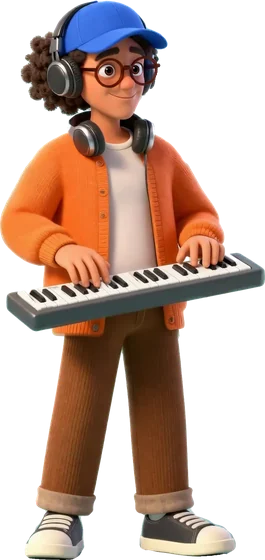
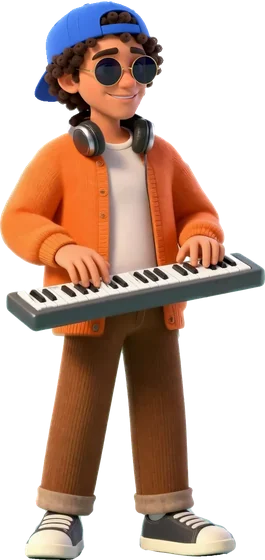
The keyboardist as a cool musician; the team in their own poses on the map
- The keyboardist no longer looks cross-eyed or goofy: a backwards cap, round dark sunglasses with gold
  frames, one pair of headphones round his neck and a calm, confident smile; his hands and keys stay
- On the process map the three stand in other poses than on the first screen: the recording person
  with a handheld recorder and a hand on her headphones, the tester holding his phone sideways like a
  game controller, the musician snapping his fingers to the beat (EN and UA descriptions)

Changed region(s): [[0.0604, 0.0, 0.634, 0.2125]]

diff --git a/index.html b/index.html
@@ -11,35 +11,35 @@
 <link rel="preconnect" href="https://fonts.gstatic.com" crossorigin>
 <link rel="stylesheet" href="https://fonts.googleapis.com/css2?family=Archivo:wdth,wght@62..125,100..900&family=Roboto+Flex:wdth,wght@25..151,100..1000&family=Montserrat:wght@600..900&display=swap">
 <script>try{if(localStorage.getItem("sfx-lang")==="uk"){document.documentElement.lang="uk";document.documentElement.classList.add("i18n-wait")}}catch(e){}</script>
-<link rel="stylesheet" href="css/style.css?v=202610231613">
+<link rel="stylesheet" href="css/style.css?v=202610231812">
 <link rel="preload" as="image" href="assets/system/scene-forest.webp" fetchpriority="high">
 <script type="importmap">
 {
   "imports": {
     "three": "https://cdn.jsdelivr.net/npm/three@0.170.0/build/three.module.min.js",
     "three/addons/": "https://cdn.jsdelivr.net/npm/three@0.170.0/examples/jsm/",
-    "./js/audio.js": "./js/audio.js?v=202610231613",
-    "./js/boom-frame.js": "./js/boom-frame.js?v=202610231613",
-    "./js/content.js": "./js/content.js?v=202610231613",
-    "./js/gift.js": "./js/gift.js?v=202610231613",
-    "./js/i18n-boot.js": "./js/i18n-boot.js?v=202610231613",
-    "./js/i18n-uk.js": "./js/i18n-uk.js?v=202610231613",
-    "./js/i18n.js": "./js/i18n.js?v=202610231613",
-    "./js/main.js": "./js/main.js?v=202610231613",
-    "./js/map.js": "./js/map.js?v=202610231613",
-    "./js/music/music.js": "./js/music/music.js?v=202610231613",
-    "./js/music/sound.js": "./js/music/sound.js?v=202610231613",
-    "./js/phone-speakers.js": "./js/phone-speakers.js?v=202610231613",
-    "./js/studio-anim.js": "./js/studio-anim.js?v=202610231613",
-    "./js/studio-console.js": "./js/studio-console.js?v=202610231613",
-    "./js/studio-foley.js": "./js/studio-foley.js?v=202610231613",
-    "./js/studio-piano.js": "./js/studio-piano.js?v=202610231613",
-    "./js/team-carousel.js": "./js/team-carousel.js?v=202610231613"
+    "./js/audio.js": "./js/audio.js?v=202610231812",
+    "./js/boom-frame.js": "./js/boom-frame.js?v=202610231812",
+    "./js/content.js": "./js/content.js?v=202610231812",
+    "./js/gift.js": "./js/gift.js?v=202610231812",
+    "./js/i18n-boot.js": "./js/i18n-boot.js?v=202610231812",
+    "./js/i18n-uk.js": "./js/i18n-uk.js?v=202610231812",
+    "./js/i18n.js": "./js/i18n.js?v=202610231812",
+    "./js/main.js": "./js/main.js?v=202610231812",
+    "./js/map.js": "./js/map.js?v=202610231812",
+    "./js/music/music.js": "./js/music/music.js?v=202610231812",
+    "./js/music/sound.js": "./js/music/sound.js?v=202610231812",
+    "./js/phone-speakers.js": "./js/phone-speakers.js?v=202610231812",
+    "./js/studio-anim.js": "./js/studio-anim.js?v=202610231812",
+    "./js/studio-console.js": "./js/studio-console.js?v=202610231812",
+    "./js/studio-foley.js": "./js/studio-foley.js?v=202610231812",
+    "./js/studio-piano.js": "./js/studio-piano.js?v=202610231812",
+    "./js/team-carousel.js": "./js/team-carousel.js?v=202610231812"
   }
 }
 </script>
-<script type="module" src="js/i18n-boot.js?v=202610231613"></script>
-<script type="module" src="js/main.js?v=202610231613"></script>
+<script type="module" src="js/i18n-boot.js?v=202610231812"></script>
+<script type="module" src="js/main.js?v=202610231812"></script>
 </head>
 <body>
 <a class="skip" href="#main">Skip to content</a>
@@ -158,7 +158,7 @@
             <section class="bay" data-bay="sfx" aria-labelledby="bay-sfx">
               <h3 class="bay__title" id="bay-sfx"><span class="bay__dot" data-bay-dot="sfx" aria-hidden="true"></span>Sound effects</h3>
               <div class="bay__desk">
-                <img class="bay__person bay__person--rec" src="assets/team/rec-map-560.webp" srcset="assets/team/rec-map-560.webp 295w, assets/team/rec-map.webp 587w" sizes="150px" alt="Illustration: recording sound with a boom microphone" width="587" height="1115" loading="lazy" decoding="async">
+                <img class="bay__person bay__person--rec" src="assets/team/rec-map-560.webp" srcset="assets/team/rec-map-560.webp 249w, assets/team/rec-map.webp 489w" sizes="150px" alt="Illustration: recording footsteps with a handheld recorder" width="489" height="1100" loading="lazy" decoding="async">
                 <div class="principle__art principle__art--stage" id="card-sfx" data-scene="foley" role="group" aria-label="Sound effects: a boot over dirt, sand, grass and snow. Press a surface to hear the boot step on it."><span class="principle__hint" aria-hidden="true">Pick a surface</span><img class="principle__img" src="assets/studio/foley-640.webp" srcset="assets/studio/foley-640.webp 640w, assets/studio/foley-1024.webp 1024w" sizes="(max-width: 760px) 92vw, 300px" width="1024" height="768" loading="lazy" decoding="async" alt=""></div>
                 <button class="zoom-btn" type="button" data-zoom-open="card-sfx" data-zoom-label="Sound effects" aria-label="Open the sound effects larger"><svg viewBox="0 0 24 24" aria-hidden="true"><path d="M14 4h6v6M20 4l-7 7M10 20H4v-6M4 20l7-7"/></svg></button>
               </div>
@@ -166,7 +166,7 @@
             <section class="bay" data-bay="music" aria-labelledby="bay-music">
               <h3 class="bay__title" id="bay-music"><span class="bay__dot" data-bay-dot="music" aria-hidden="true"></span>Music</h3>
               <div class="bay__desk">
-                <img class="bay__person bay__person--mix" src="assets/team/mix-560.webp" srcset="assets/team/mix-560.webp 265w, assets/team/mix.webp 520w" sizes="150px" alt="Illustration: creating and tuning music on a MIDI keyboard" width="520" height="1100" loading="lazy" decoding="async">
+                <img class="bay__person bay__person--mix" src="assets/team/mix-map-560.webp" srcset="assets/team/mix-map-560.webp 243w, assets/team/mix-map.webp 478w" sizes="150px" alt="Illustration: a musician snapping his fingers to the beat" width="478" height="1100" loading="lazy" decoding="async">
                 <div class="principle__art principle__art--play" id="card-music" data-scene="keys" tabindex="0" role="group" aria-label="A small keyboard you can play" aria-describedby="piano-help"><span class="principle__hint" aria-hidden="true">Play me</span><span class="visually-hidden" id="piano-help">Click or tap the keys. With the keyboard, use A to L for white keys and W, E, T, Y, U, O, P for black keys.</span><img class="principle__img" src="assets/studio/music-640.webp" srcset="assets/studio/music-640.webp 640w, assets/studio/music-1024.webp 1024w" sizes="(max-width: 760px) 92vw, 300px" width="1024" height="768" loading="lazy" decoding="async" alt=""></div>
                 <button class="zoom-btn" type="button" data-zoom-open="card-music" data-zoom-label="Music" aria-label="Open the keyboard larger"><svg viewBox="0 0 24 24" aria-hidden="true"><path d="M14 4h6v6M20 4l-7 7M10 20H4v-6M4 20l7-7"/></svg></button>
               </div>
@@ -181,7 +181,7 @@
           <div class="stage__bay">
             <div class="bay" data-bay="test">
               <div class="bay__desk bay__desk--side">
-                <img class="bay__person bay__person--test" src="assets/team/test-560.webp" srcset="assets/team/test-560.webp 261w, assets/team/test.webp 512w" sizes="110px" alt="Illustration: testing the game on a phone" width="512" height="1100" loading="lazy" decoding="async">
+                <img class="bay__person bay__person--test" src="assets/team/test-map-560.webp" srcset="assets/team/test-map-560.webp 199w, assets/team/test-map.webp 391w" sizes="110px" alt="Illustration: playing the game on a phone held sideways" width="391" height="1100" loading="lazy" decoding="async">
                 <div class="principle__art principle__art--pad" id="card-test" data-scene="console" role="group" aria-label="A handheld console with a small rhythm game: four strings on its screen, notes slide down to their targets." aria-describedby="pad-help"><span class="principle__hint" aria-hidden="true">Sweep across the strings</span><span class="visually-hidden" id="pad-help">The four strings play the notes C, E, G and A. Press Play, then pluck each string as its note reaches the target: pass the cursor across the string (no click needed), swipe across it on a touch screen, or use the keys D, F, J and K. Out of a game the strings can be plucked freely.</span><img class="principle__img" src="assets/studio/engine-tall-640.webp" width="640" height="853" loading="lazy" decoding="async" alt=""></div>
                 <button class="zoom-btn" type="button" data-zoom-open="card-test" data-zoom-label="Integration and testing" aria-label="Open the Game Boy larger"><svg viewBox="0 0 24 24" aria-hidden="true"><path d="M14 4h6v6M20 4l-7 7M10 20H4v-6M4 20l7-7"/></svg></button>
               </div>

diff --git a/js/i18n-uk.js b/js/i18n-uk.js
@@ -112,15 +112,15 @@ export const UK = {
   'A mobile game on the phone: a forest clearing with a hut, a campfire and a stream': 'Мобільна гра на телефоні: лісова галявина з хатинкою, багаттям і струмком',
   'We adapt the sound effects and the music to your game.': 'Адаптуємо звукові ефекти й музику під вашу гру.',
   'Sound tailored': 'Звук адаптовано',
-  'Illustration: recording sound with a boom microphone': 'Ілюстрація: запис звуку бум-мікрофоном',
+  'Illustration: recording footsteps with a handheld recorder': 'Ілюстрація: запис кроків ручним рекордером',
   'Sound effects: a boot over dirt, sand, grass and snow. Press a surface to hear the boot step on it.':
     'Звукові ефекти: черевик над землею, піском, травою і снігом. Натисніть на поверхню, щоб почути крок по ній.',
   'Open the sound effects larger': 'Відкрити звукові ефекти більшими',
-  'Illustration: creating and tuning music on a MIDI keyboard': 'Ілюстрація: створення й налаштування музики на MIDI-клавіатурі',
+  'Illustration: a musician snapping his fingers to the beat': 'Ілюстрація: музикант клацає пальцями в ритм',
   'Open the keyboard larger': 'Відкрити клавіатуру більшою',
   'We connect the solution to the game and check its behaviour and balance in gameplay.': 'Підключаємо рішення до гри й перевіряємо його поведінку та баланс у геймплеї.',
   'Checked in the game': 'Перевірено в грі',
-  'Illustration: testing the game on a phone': 'Ілюстрація: перевірка гри на телефоні',
+  'Illustration: playing the game on a phone held sideways': 'Ілюстрація: гра на телефоні, який тримають горизонтально',
   'Open the Game Boy larger': 'Відкрити Game Boy більшим',
   'Sweep across the strings to play. The rhythm game is only a demo of the interaction, not a tool for testing your game.':
     'Проведіть по струнах, щоб зіграти. Ритм-гра — лише демонстрація взаємодії, а не інструмент для тестування вашої гри.',

diff --git a/js/main.js b/js/main.js
@@ -72,7 +72,7 @@ function initHeader() {
 // line on top, the phone under it, the team under the phone. The people's tops come from their pictures:
 // bands of their silhouettes, every 4 % of the height (_dev/tools/team_silhouette.py), her microphone from
 // js/boom-frame.js; thin things (her pole) are left out.
-const SILHOUETTE = {"test":[[0.0,0.04,0.422,0.791],[0.04,0.08,0.391,0.812],[0.08,0.12,0.396,0.812],[0.12,0.16,0.381,0.719],[0.16,0.2,0.383,0.709],[0.2,0.24,0.0,0.828],[0.24,0.28,0.0,0.896],[0.28,0.32,0.002,0.934],[0.32,0.36,0.045,0.971],[0.36,0.4,0.072,0.998],[0.4,0.44,0.08,1.0],[0.44,0.48,0.285,0.986],[0.48,0.52,0.281,0.945],[0.52,0.56,0.285,0.828],[0.56,0.6,0.32,0.777]],"rec":[[0.12,0.16,0.683,0.843],[0.16,0.2,0.608,0.921],[0.2,0.24,0.586,0.947],[0.24,0.28,0.575,0.954],[0.28,0.32,0.354,0.952],[0.32,0.36,0.359,0.943],[0.36,0.4,0.32,0.936],[0.4,0.44,0.317,0.974],[0.44,0.48,0.35,0.996],[0.48,0.52,0.488,1.0],[0.52,0.56,0.475,0.969],[0.56,0.6,0.499,0.901]],"mix":[[0.0,0.04,0.221,0.546],[0.04,0.08,0.112,0.633],[0.08,0.12,0.087,0.633],[0.12,0.16,0.077,0.596],[0.16,0.2,0.108,0.562],[0.2,0.24,0.231,0.585],[0.24,0.28,0.127,0.683],[0.28,0.32,0.071,0.74],[0.32,0.36,0.025,0.794],[0.36,0.4,0.0,0.831],[0.4,0.44,0.0,0.848],[0.44,0.48,0.027,0.994],[0.48,0.52,0.113,1.0],[0.52,0.56,0.023,0.892],[0.56,0.6,0.044,0.698]]};
+const SILHOUETTE = {"test":[[0.0,0.04,0.422,0.791],[0.04,0.08,0.391,0.812],[0.08,0.12,0.396,0.812],[0.12,0.16,0.381,0.719],[0.16,0.2,0.383,0.709],[0.2,0.24,0.0,0.828],[0.24,0.28,0.0,0.896],[0.28,0.32,0.002,0.934],[0.32,0.36,0.045,0.971],[0.36,0.4,0.072,0.998],[0.4,0.44,0.08,1.0],[0.44,0.48,0.285,0.986],[0.48,0.52,0.281,0.945],[0.52,0.56,0.285,0.828],[0.56,0.6,0.32,0.777]],"rec":[[0.12,0.16,0.683,0.843],[0.16,0.2,0.608,0.921],[0.2,0.24,0.586,0.947],[0.24,0.28,0.575,0.954],[0.28,0.32,0.354,0.952],[0.32,0.36,0.359,0.943],[0.36,0.4,0.32,0.936],[0.4,0.44,0.317,0.974],[0.44,0.48,0.35,0.996],[0.48,0.52,0.488,1.0],[0.52,0.56,0.475,0.969],[0.56,0.6,0.499,0.901]],"mix":[[0.0,0.04,0.215,0.544],[0.04,0.08,0.173,0.602],[0.08,0.12,0.173,0.617],[0.12,0.16,0.133,0.61],[0.16,0.2,0.131,0.548],[0.2,0.24,0.238,0.585],[0.24,0.28,0.127,0.683],[0.28,0.32,0.071,0.74],[0.32,0.36,0.025,0.794],[0.36,0.4,0.0,0.831],[0.4,0.44,0.0,0.848],[0.44,0.48,0.027,0.994],[0.48,0.52,0.113,1.0],[0.52,0.56,0.023,0.892],[0.56,0.6,0.044,0.698]]};
 const PHONE_RATIO = 2.05;
 
 // every place the people pass on the carousel (k = -1 left ... 0 middle ... +1 right), as rects on the stage

diff --git a/css/style.css b/css/style.css
@@ -1233,8 +1233,8 @@ ul { padding: 0; list-style: none; }
   position: absolute; z-index: 0; left: var(--person-x); top: calc(var(--pt) - var(--fig) * var(--k) * var(--waist));
   height: calc(var(--fig) * var(--k)); width: auto; max-width: none; pointer-events: none; user-select: none;
 }
-[data-bay="sfx"] .bay__desk { --k: 1.12; --waist: .64; --person-x: 0%; }
-[data-bay="music"] .bay__desk { --k: .93; --waist: .6; --person-x: 26%; }
+[data-bay="sfx"] .bay__desk { --k: 1.12; --waist: .53; --person-x: 2%; }   /* round T: her map pose (rec-map.webp, head to shoes) */
+[data-bay="music"] .bay__desk { --k: 1.14; --waist: .5; --person-x: 22%; }   /* round T: his map pose (mix-map.webp) */
 /* stage 03: the tester stands beside the Game Boy */
 .bay__desk--side { display: grid; grid-template-columns: auto minmax(0, 1fr); align-items: end; gap: 6px; padding-top: 0; }
 .bay__desk--side .bay__person { position: relative; left: auto; top: auto; margin-bottom: -2px; height: calc(var(--fig) * .98); }
@@ -1313,7 +1313,7 @@ ul { padding: 0; list-style: none; }
 .bay__desk--side::before { top: 24%; }
 /* the tester: taller than the Game Boy, beside it (round T: overlapping it hid him on the tablet) */
 .bay__desk--side { gap: 6px; }
-.bay__desk--side .bay__person { height: calc(var(--fig) * 1.02); margin: 0 0 -10px 0; }
+.bay__desk--side .bay__person { height: calc(var(--fig) * 1.24); margin: 0 0 -10px 0; }
 /* stage 04: the gift in a coral panel, its lid and bow above the frame */
 .map .gift { --panel-c: #ff7b5c; --ray-x: 50%; padding: 4px 12px 12px; }
 .map .gift::before { left: 0; right: 0; bottom: 0; height: 104px; }
